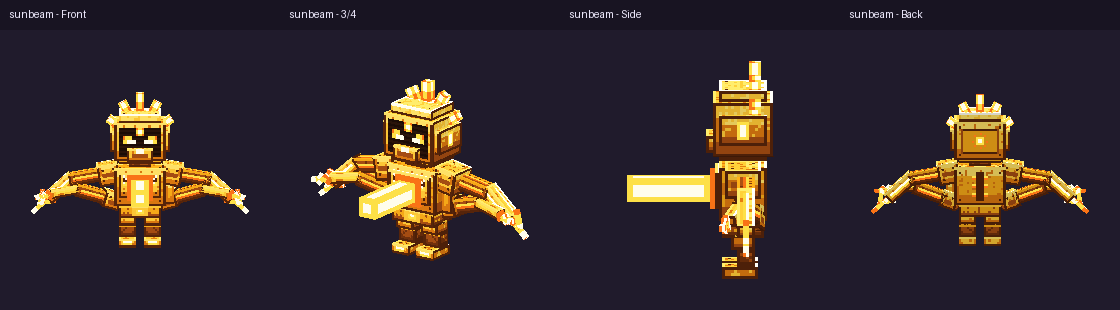
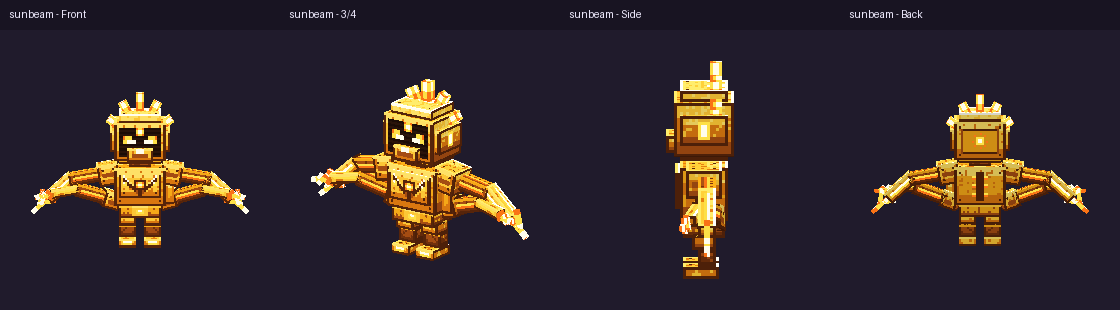
Art Pass Section 2.4: remove chest_beam from Sunbeam model and fire chest particle sunbeam on attack

Changed region(s): [[0.5625, 0.2032, 0.6875, 0.9], [0.3125, 0.5516, 0.375, 0.7258], [0.0938, 0.5516, 0.1562, 0.6677]]

diff --git a/tools/art/make_pets_art.py b/tools/art/make_pets_art.py
@@ -4275,7 +4275,7 @@ def make_sunbeam():
     - Multi-stop forged Sunsteel armor shading across all 6 faces (bevels, seams, corner rivets, sole treads)
     - Creature-like Sunsteel guardian head: dark recessed visor, 2x angled glowing solar eyes,
       faceted forehead sun-diamond, 3D armored beak/jaw-crest, carved back-of-head solar rune & 5-ray solar crown
-    - Sculpted Sunsteel breastplate & layered chest chevron (attack-only `chest_beam` stays hidden at scale 0)
+    - Sculpted Sunsteel breastplate with a flush solar-emitter core (sunbeam attack fires as particles in-world)
     - Four articulated spiky solar wing-arms with glowing plasma conduits & 3-pronged starburst claws
     """
     import json
@@ -4313,9 +4313,6 @@ def make_sunbeam():
     SNOUT = (84, 33, 6, 3, 2)
     CROWN_RAY = (102, 33, 2, 5, 2)
     CROWN_RAY_SM = (112, 33, 2, 4, 2)
-
-    BEAM_CORE = (0, 42, 4, 4, 14)
-    BEAM_FLARE = (38, 42, 6, 6, 1)
 
     THIGH = (0, 60, 4, 3, 4)
     SHIN = (18, 60, 4, 3, 3)
@@ -4387,10 +4384,6 @@ def make_sunbeam():
                             color = hi if (t < 0.18 and grain < 9) else (base if (t < 0.75 and grain < 9) else shade)
                     put(target, px, py, color)
 
-    def flat(box, color, target):
-        for rect in f2x(*box).values():
-            fill(target, rect, color)
-
     # 1. Forged Sunsteel Armor Plates at 2x resolution
     plate(CHEST, SUN_HI, GOLD, GOLD_MID, BRONZE, seed=1)
     plate(CHEST_PLATE, SUN_HI, GOLD_BRIGHT, GOLD_MID, BRONZE, seed=2)
@@ -4427,8 +4420,14 @@ def make_sunbeam():
     for py in range(cy + 6, cy + ch - 2):
         fill(img, (cx + cw // 2 - 2, py, 4, 1), BRONZE)
         fill(img, (cx + cw // 2 - 1, py, 2, 1), SEAM)
-    # Glowing solar-forge vents along the upper chest flanks
+    # Flush recessed chest solar-emitter emblem & solar-forge flank vents
+    em_x, em_y = cx + cw // 2, cy + 5
+    fill(img, (em_x - 3, em_y - 2, 6, 5), SEAM)
     for target in (img, glow):
+        fill(target, (em_x - 2, em_y - 1, 4, 3), FLAME_O)
+        fill(target, (em_x - 1, em_y - 1, 2, 3), FLAME_Y)
+        fill(target, (em_x - 2, em_y, 4, 1), FLAME_Y)
+        fill(target, (em_x - 1, em_y, 2, 1), WHITE_HOT)
         fill(target, (cx + 2, cy + 4, 2, 2), FLAME_Y)
         fill(target, (cx + cw - 4, cy + 4, 2, 2), FLAME_Y)
         put(target, cx + 2, cy + 4, WHITE_HOT)
@@ -4566,19 +4565,6 @@ def make_sunbeam():
                         tx = (px - x) / max(1, fw - 1)
                         put(target, px, py, WHITE_HOT if tx < 0.25 else (FLAME_Y if tx < 0.72 else FLAME_O))
 
-    # 5. Attack-only Chest Solar Beam (hidden at scale 0 in idle/walk/sit)
-    for target in (img, glow):
-        flat(BEAM_CORE, FLAME_Y, target)
-        for face, (x, y, fw, fh) in f2x(*BEAM_CORE).items():
-            if fw >= 5 and fh >= 5:
-                fill(target, (x + 2, y + 2, fw - 4, fh - 4), WHITE_HOT)
-        for face, (x, y, fw, fh) in f2x(*BEAM_FLARE).items():
-            fill(target, (x, y, fw, fh), FLAME_O)
-            if fw >= 6 and fh >= 6:
-                fill(target, (x + 2, y + 2, fw - 4, fh - 4), FLAME_Y)
-            if fw >= 10 and fh >= 10:
-                fill(target, (x + 4, y + 4, fw - 8, fh - 8), WHITE_HOT)
-
     # Save textures
     dest = OUT / "entity/sunbeam.png"
     dest.parent.mkdir(parents=True, exist_ok=True)
@@ -4703,15 +4689,6 @@ def make_sunbeam():
                             cube([-6, 10, -4], CHEST),
                             cube([-5, 12, -4.8], CHEST_PLATE),
                             cube([6, 10, -1.5], FLAP),
-                        ],
-                    },
-                    {
-                        "name": "chest_beam",
-                        "parent": "body",
-                        "pivot": [0, 14.5, -5],
-                        "cubes": [
-                            cube([-3, 11.5, -5.5], BEAM_FLARE),
-                            cube([-2, 12.5, -19.5], BEAM_CORE),
                         ],
                     },
                     {

diff --git a/src/main/java/com/silkpanda/artilian/pet/SunbeamEntity.java b/src/main/java/com/silkpanda/artilian/pet/SunbeamEntity.java
@@ -4,6 +4,7 @@ import com.silkpanda.artilian.registry.ArtilianBlocks;
 import net.minecraft.core.BlockPos;
 import net.minecraft.core.particles.ParticleTypes;
 import net.minecraft.nbt.CompoundTag;
+import net.minecraft.server.level.ServerLevel;
 import net.minecraft.sounds.SoundEvent;
 import net.minecraft.sounds.SoundEvents;
 import net.minecraft.tags.BlockTags;
@@ -23,6 +24,7 @@ import net.minecraft.world.level.LevelAccessor;
 import net.minecraft.world.level.block.Blocks;
 import net.minecraft.world.level.block.LightBlock;
 import net.minecraft.world.level.block.state.BlockState;
+import net.minecraft.world.phys.Vec3;
 import org.jetbrains.annotations.Nullable;
 import software.bernie.geckolib.animation.AnimatableManager;
 import software.bernie.geckolib.animation.AnimationController;
@@ -215,6 +217,34 @@ public class SunbeamEntity extends ArtilianPetEntity {
             this.clearPlacedLight();
         }
         super.remove(reason);
+    }
+
+    @Override
+    public boolean doHurtTarget(Entity entity) {
+        boolean hit = super.doHurtTarget(entity);
+        if (hit && this.level() instanceof ServerLevel serverLevel) {
+            this.emitChestSunbeam(serverLevel, entity);
+        }
+        return hit;
+    }
+
+    /** Fires a focused beam of solar particles from Sunbeam's chest core to the attacked target. */
+    private void emitChestSunbeam(ServerLevel serverLevel, Entity target) {
+        Vec3 chest = new Vec3(this.getX(), this.getY(0.55), this.getZ());
+        Vec3 dest = new Vec3(target.getX(), target.getY(0.5), target.getZ());
+        Vec3 delta = dest.subtract(chest);
+        double dist = delta.length();
+        int steps = Math.max(4, (int) Math.ceil(dist * 4.0));
+        for (int i = 0; i <= steps; i++) {
+            double t = (double) i / steps;
+            Vec3 p = chest.add(delta.scale(t));
+            serverLevel.sendParticles(ParticleTypes.END_ROD, p.x, p.y, p.z, 1, 0.03, 0.03, 0.03, 0.0);
+            if (i % 2 == 0) {
+                serverLevel.sendParticles(ParticleTypes.FLAME, p.x, p.y, p.z, 1, 0.05, 0.05, 0.05, 0.01);
+            }
+        }
+        serverLevel.sendParticles(ParticleTypes.WAX_ON, dest.x, dest.y, dest.z, 8, 0.25, 0.25, 0.25, 0.03);
+        this.playSound(SoundEvents.BLAZE_SHOOT, 0.55F, 1.3F);
     }
 
     @Override

diff --git a/PLAN.md b/PLAN.md
@@ -10,7 +10,7 @@ Written 2026-11-15; consolidated 2026-11-18 into a single phased and staged plan
 
 | | |
 |---|---|
-| **In progress** | **Art Pass — Section 2.4 (Pet & Companion Creatures, one creature at a time)** on branch `art/pass-3-pets` (built on `art/pass-2-weapons-items`): **Chester** (`chester` + `chester_sleep`, `128×128`, commit `6411af1`), **Crystal Fox** (`crystal_fox`, `256×128` 2× coat + `crystal_fox_glowmask.png` + `AutoGlowingGeoLayer` + `--crystal-fox` CLI flag, commit `df1c518`), **Shadow Wisp** (`shadow_wisp`, `256×128` 2× shadow coat + `shadow_wisp_glowmask.png` + `AutoGlowingGeoLayer` + `--shadow-wisp` CLI flag, commits `499694c`/`89c3542`), **Cinder Crag** (`cinder_crag`, `256×128` 2× crimson-basalt & magma coat + `cinder_crag_glowmask.png` + `AutoGlowingGeoLayer` + crossed-plane cutout `entityCutoutNoCull` fire crown + `--cinder-crag` CLI flag, commits `7490ec6`/`db6049f`), **Zaphox** (`zaphox`, `256×128` 2× shaded cheetah coat + `entityCutoutNoCull` alpha-cutout sawtooth lightning wings, pointed fox-elephant ears, wispy fur tufts, tapered curling trunk & legs + `zaphox_glowmask.png` + `AutoGlowingGeoLayer` + `--zaphox` CLI flag, commits `2fb887f`/`d446818`), **Galecorn** (`galecorn`, `256×128` 2× sunny fox-unicorn coat & swirling cloud-fan tail + `entityCutoutNoCull` alpha-cutout pointed ears, flowing mane locks, cheek tufts, wind-gust plumes & fetlock fins + `galecorn_glowmask.png` + `AutoGlowingGeoLayer` + `--galecorn` CLI flag, commit `fb5aa1b`), **Ember Drake** (`ember_drake`, `256×128` 2× diamond-scaled Canopy Emerald & ribbed Ember Amber hatchling + `entityCutoutNoCull` scalloped bat-dragon wing membranes, dorsal flame spines, cheek frills, blazing crossed-plane tail spade, flush slit-pupil dragon eyes & `ember_drake_glowmask.png` + `AutoGlowingGeoLayer` + `--ember-drake` CLI flag, commit `f515045`), **Peepkin** (`peepkin`, `256×128` 2× starry Astral-Plum & Twilight-Magenta plush orb + `entityCutoutNoCull` feathered eye-spot fairy winglets, sweeping eyelashes, halo crest, cheek tufts, starry tail-eye fan & tassel ribbons + `peepkin_glowmask.png` + `AutoGlowingGeoLayer` + `--peepkin` CLI flag, commit `8b6ac66`), **Prismling** (`prismling`, `256×128` multi-stop beveled Sunsteel armor, faceted rainbow crystal prism & armored pillar legs + carved back-of-head helm panel & prism rune + `entityCutoutNoCull` for the 8 floating elemental symbols + `prismling_glowmask.png` + `--prismling` CLI flag, commit `7988afa`), **Flurrywing** (`flurrywing`, `256×128` 2× spherical frost-shaded snowballs, vertical coal dash buttons, knit turquoise beanie, symmetric middle-snowball stick & quilted mitten arms, symmetric veined crystalline butterfly wings + `flurrywing_glowmask.png` + `AutoGlowingGeoLayer` + `--flurrywing` CLI flag, commits `3aec748`/`3962d92`), and **Sunbeam** (`sunbeam`, `256×256` 2× forged Sunsteel armor with multi-stop bevels, seams, corner rivets, sole treads, carved back-of-head solar crest rune, 2× visor eyes & sun-diamond + `sunbeam_glowmask.png` + `--sunbeam` CLI flag) upgraded and passing `lint_art.py --entity <id> --strict`, `preview_geo.py`, and `./gradlew build`. |
+| **In progress** | **Art Pass — Section 2.4 (Pet & Companion Creatures, one creature at a time)** on branch `art/pass-3-pets` (built on `art/pass-2-weapons-items`): **Chester** (`chester` + `chester_sleep`, `128×128`, commit `6411af1`), **Crystal Fox** (`crystal_fox`, `256×128` 2× coat + `crystal_fox_glowmask.png` + `AutoGlowingGeoLayer` + `--crystal-fox` CLI flag, commit `df1c518`), **Shadow Wisp** (`shadow_wisp`, `256×128` 2× shadow coat + `shadow_wisp_glowmask.png` + `AutoGlowingGeoLayer` + `--shadow-wisp` CLI flag, commits `499694c`/`89c3542`), **Cinder Crag** (`cinder_crag`, `256×128` 2× crimson-basalt & magma coat + `cinder_crag_glowmask.png` + `AutoGlowingGeoLayer` + crossed-plane cutout `entityCutoutNoCull` fire crown + `--cinder-crag` CLI flag, commits `7490ec6`/`db6049f`), **Zaphox** (`zaphox`, `256×128` 2× shaded cheetah coat + `entityCutoutNoCull` alpha-cutout sawtooth lightning wings, pointed fox-elephant ears, wispy fur tufts, tapered curling trunk & legs + `zaphox_glowmask.png` + `AutoGlowingGeoLayer` + `--zaphox` CLI flag, commits `2fb887f`/`d446818`), **Galecorn** (`galecorn`, `256×128` 2× sunny fox-unicorn coat & swirling cloud-fan tail + `entityCutoutNoCull` alpha-cutout pointed ears, flowing mane locks, cheek tufts, wind-gust plumes & fetlock fins + `galecorn_glowmask.png` + `AutoGlowingGeoLayer` + `--galecorn` CLI flag, commit `fb5aa1b`), **Ember Drake** (`ember_drake`, `256×128` 2× diamond-scaled Canopy Emerald & ribbed Ember Amber hatchling + `entityCutoutNoCull` scalloped bat-dragon wing membranes, dorsal flame spines, cheek frills, blazing crossed-plane tail spade, flush slit-pupil dragon eyes & `ember_drake_glowmask.png` + `AutoGlowingGeoLayer` + `--ember-drake` CLI flag, commit `f515045`), **Peepkin** (`peepkin`, `256×128` 2× starry Astral-Plum & Twilight-Magenta plush orb + `entityCutoutNoCull` feathered eye-spot fairy winglets, sweeping eyelashes, halo crest, cheek tufts, starry tail-eye fan & tassel ribbons + `peepkin_glowmask.png` + `AutoGlowingGeoLayer` + `--peepkin` CLI flag, commit `8b6ac66`), **Prismling** (`prismling`, `256×128` multi-stop beveled Sunsteel armor, faceted rainbow crystal prism & armored pillar legs + carved back-of-head helm panel & prism rune + `entityCutoutNoCull` for the 8 floating elemental symbols + `prismling_glowmask.png` + `--prismling` CLI flag, commit `7988afa`), **Flurrywing** (`flurrywing`, `256×128` 2× spherical frost-shaded snowballs, vertical coal dash buttons, knit turquoise beanie, symmetric middle-snowball stick & quilted mitten arms, symmetric veined crystalline butterfly wings + `flurrywing_glowmask.png` + `AutoGlowingGeoLayer` + `--flurrywing` CLI flag, commits `3aec748`/`3962d92`), and **Sunbeam** (`sunbeam`, `256×256` 2× forged Sunsteel armor with multi-stop bevels, seams, corner rivets, sole treads, carved back-of-head solar crest rune, flush chest solar-emitter emblem, `2×` visor eyes & sun-diamond + `sunbeam_glowmask.png` + `--sunbeam` CLI flag, `chest_beam` removed from model & fired as a live particle ray in `SunbeamEntity#doHurtTarget`, commit `1b49769` + model fix) upgraded and passing `lint_art.py --entity <id> --strict`, `preview_geo.py`, and `./gradlew build`. |
 | **Next** | Continue Section 2.4 **one creature at a time** on `art/pass-3-pets` (next pets/creatures with `lint_art.py --strict` notes or `<128×128` sheets: `frogduck`, plus structure enemies & `crystal_colossus`). Always inspect any kid's drawing in `qa/reference/pets/` first. Then run `./gradlew runClient` visual check & open PRs (`art/pass-1-armor`, `art/pass-2-weapons-items`, `art/pass-3-pets` → `main`). |
 | **Waiting on the owner** | 1. In-game look & screenshots when home for the 5 v3 armor sets, Section 2.2/2.3 icons, Section 2.4 upgraded pets (`chester`, `crystal_fox`, `shadow_wisp`, `cinder_crag`, `zaphox`, `galecorn`, `ember_drake`, `peepkin`, `prismling`, `flurrywing`, `sunbeam`), **Boss Framework**, **Tier 3 Arsenal**, **The Great All-Seer**, **Primal Portal / Dragon Jungle**, **Embercrown Sovereign**, **Twin-Star Endgame**, and family LAN co-op playtest across Phases 1–5 (`qa/evidence/`). 2. The kids' official names for **Prismling**, **Flurrywing**, **Frogduck**, and **Zapkin** (placeholders; **Sunbeam** is final; only `en_us` display names change). 3. Steve's official names for **Shadow Wisp** and **Cinder Crag**. 4. Confirm the `PERSONAL_INFO_BLOCKLIST` GitHub Actions secret is set. |
 | **Other work in flight** | `art/sunsteel-armor-redesign` → `art/pass-1-armor` (Section 1 & 2.1) → `art/pass-2-weapons-items` (Section 2.2 & 2.3) → `art/pass-3-pets` (Section 2.4 in progress). |
@@ -276,7 +276,7 @@ Nobody on this project is an artist and there is no budget for commissions. The 
   - Ghast-tall (`3.0 x 4.0`, eye height `3.3`, 30 HP, 5.0 ATK, hover, rare weight `1` in Emberbloom Meadows).
   - **Sun Aura:** places one level-15 `minecraft:light` block at chest only in **air** (NBT-persisted `SunbeamPlacedLight`, cleared on move/unload/recall/faint/remove) + heals owner and owner's pets within 8 blocks (`REGENERATION I` + `1` HP every 40t; never others).
   - **Security Gate `P2-05` (`PetRosterGameTests.sunbeamLightOnlyReplacesAirAndIsRemovedWithIt`):** EXPLOITED when air check / NBT light save / `remove()` cleanup disabled; HELD (`security/FINDINGS.md`). Also red-proofed owner-only aura heal & `WATER` vs `SUNSTEEL` matchup.
-  - **v2 Art Pass (`4db7114`):** `make_pets_art.py --sunbeam` generates `sunbeam.geo.json`, `sunbeam.png`, `sunbeam_glowmask.png` (armored guardian visor, angled solar eyes, forehead sun-diamond, 5-ray solar crown, 4 spiky wing-arms, attack-only `chest_beam`). Commits `32d67fd`, `4db7114`.
+  - **v2/v3 Art Pass (`4db7114` / `art/pass-3-pets`):** `make_pets_art.py --sunbeam` generates `sunbeam.geo.json`, `sunbeam.png`, `sunbeam_glowmask.png` (armored guardian visor, angled solar eyes, forehead sun-diamond, 5-ray solar crown, 4 spiky wing-arms, flush chest solar-emitter emblem; the sunbeam attack fires as live chest particles in `SunbeamEntity#doHurtTarget` instead of a model bone). Commits `32d67fd`, `4db7114`.
 - **6D — Frogduck (`artilian:frogduck`, `[x] Complete` — Stages 1–2 in PR #7; art signed off 2026-11-19):**
   - `WATER / NATURE` (roster's first `WATER` primary), hitbox `1.25 x 1.35`, 24 HP, 4.5 ATK, Crystal Canopy Woods weight `4`.
   - Stout teal frog with middle front face plate (brown eyes, teal dots, brown cloud), four 3-clawed feet, and orange duck with outstretched wings perched on its head (`make_pets_art.py --frogduck`).
